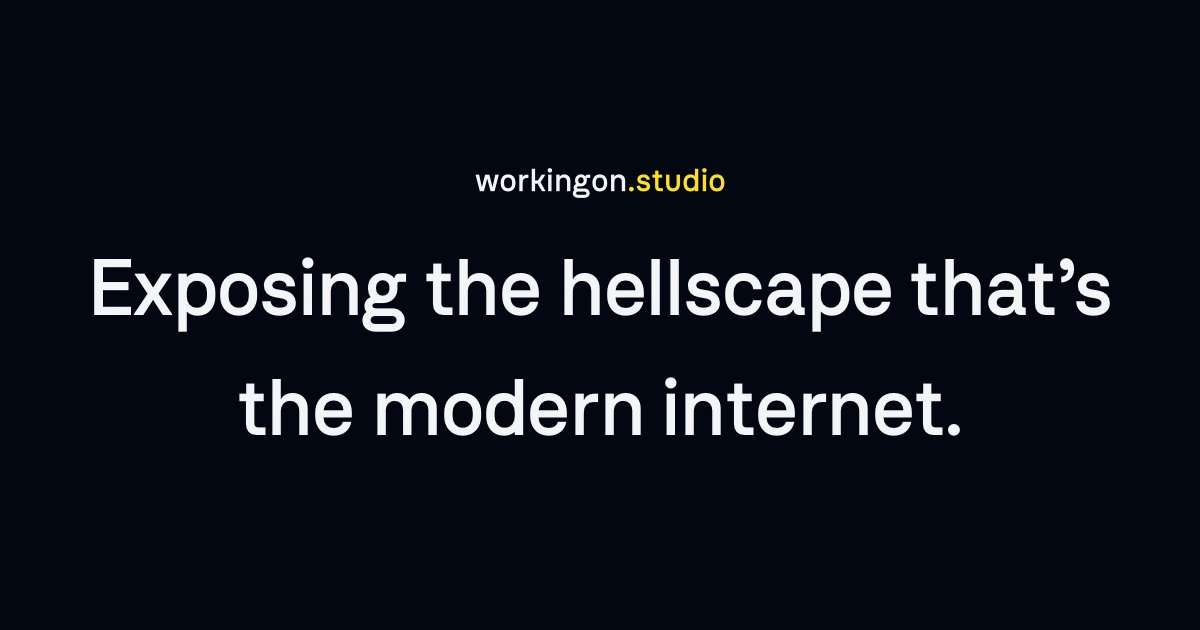
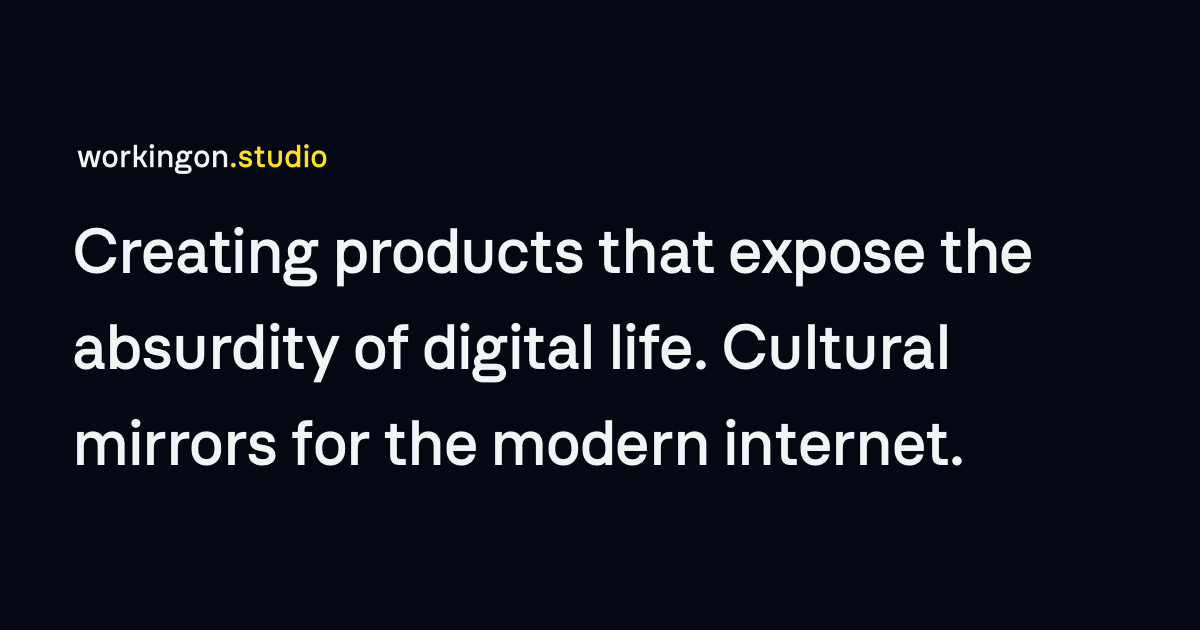
Updating homepage title copy. Updating opengraph images.

Changed region(s): [[0.0617, 0.3619, 0.925, 0.754], [0.4008, 0.2714, 0.6167, 0.3317], [0.0617, 0.2111, 0.2775, 0.2714]]

diff --git a/src/components/Home.svelte b/src/components/Home.svelte
@@ -8,7 +8,7 @@
 </script>
 
 <PageHeader>
-  <h1>Exposing the hellscape that’s the modern internet.</h1>
+  <h1>Creating products that expose the absurdity of digital life. Cultural mirrors for the modern internet.</h1>
   <section class="flex max-w-xl flex-col gap-12">
     <p>
       This studio has existed for {daysSince} days and shipped 5 projects. With 3 more in the dry dock waiting to be deployed.
